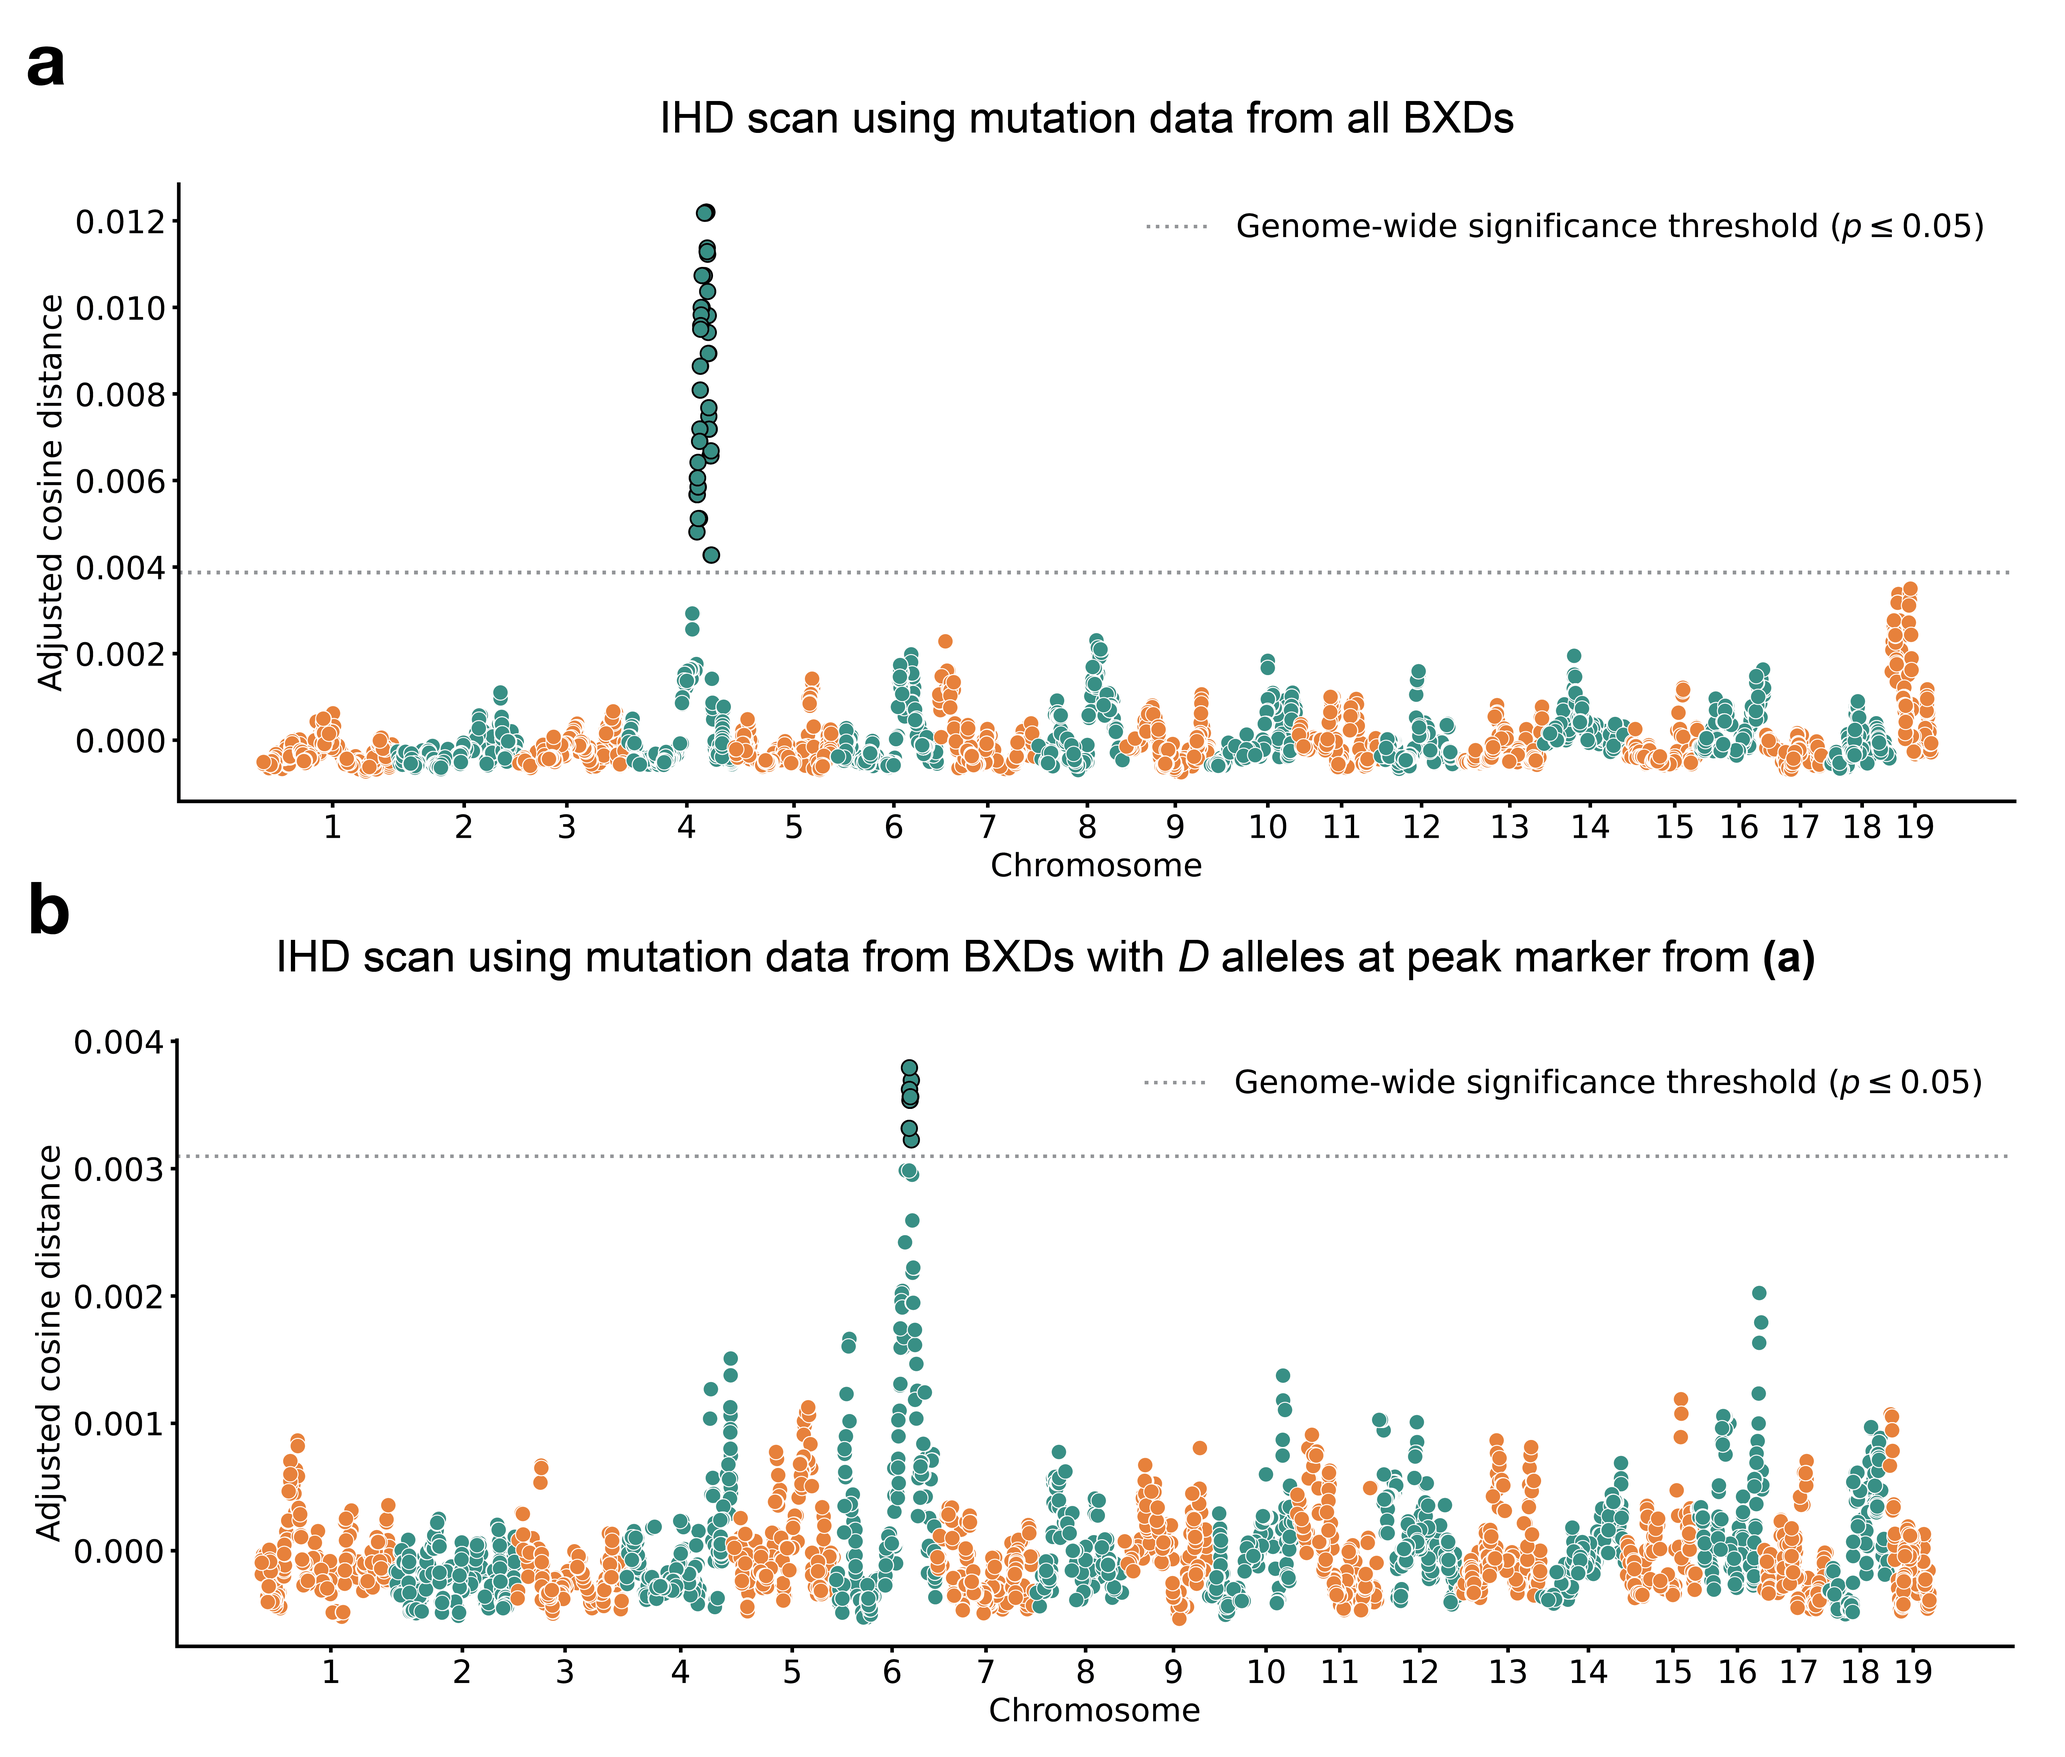
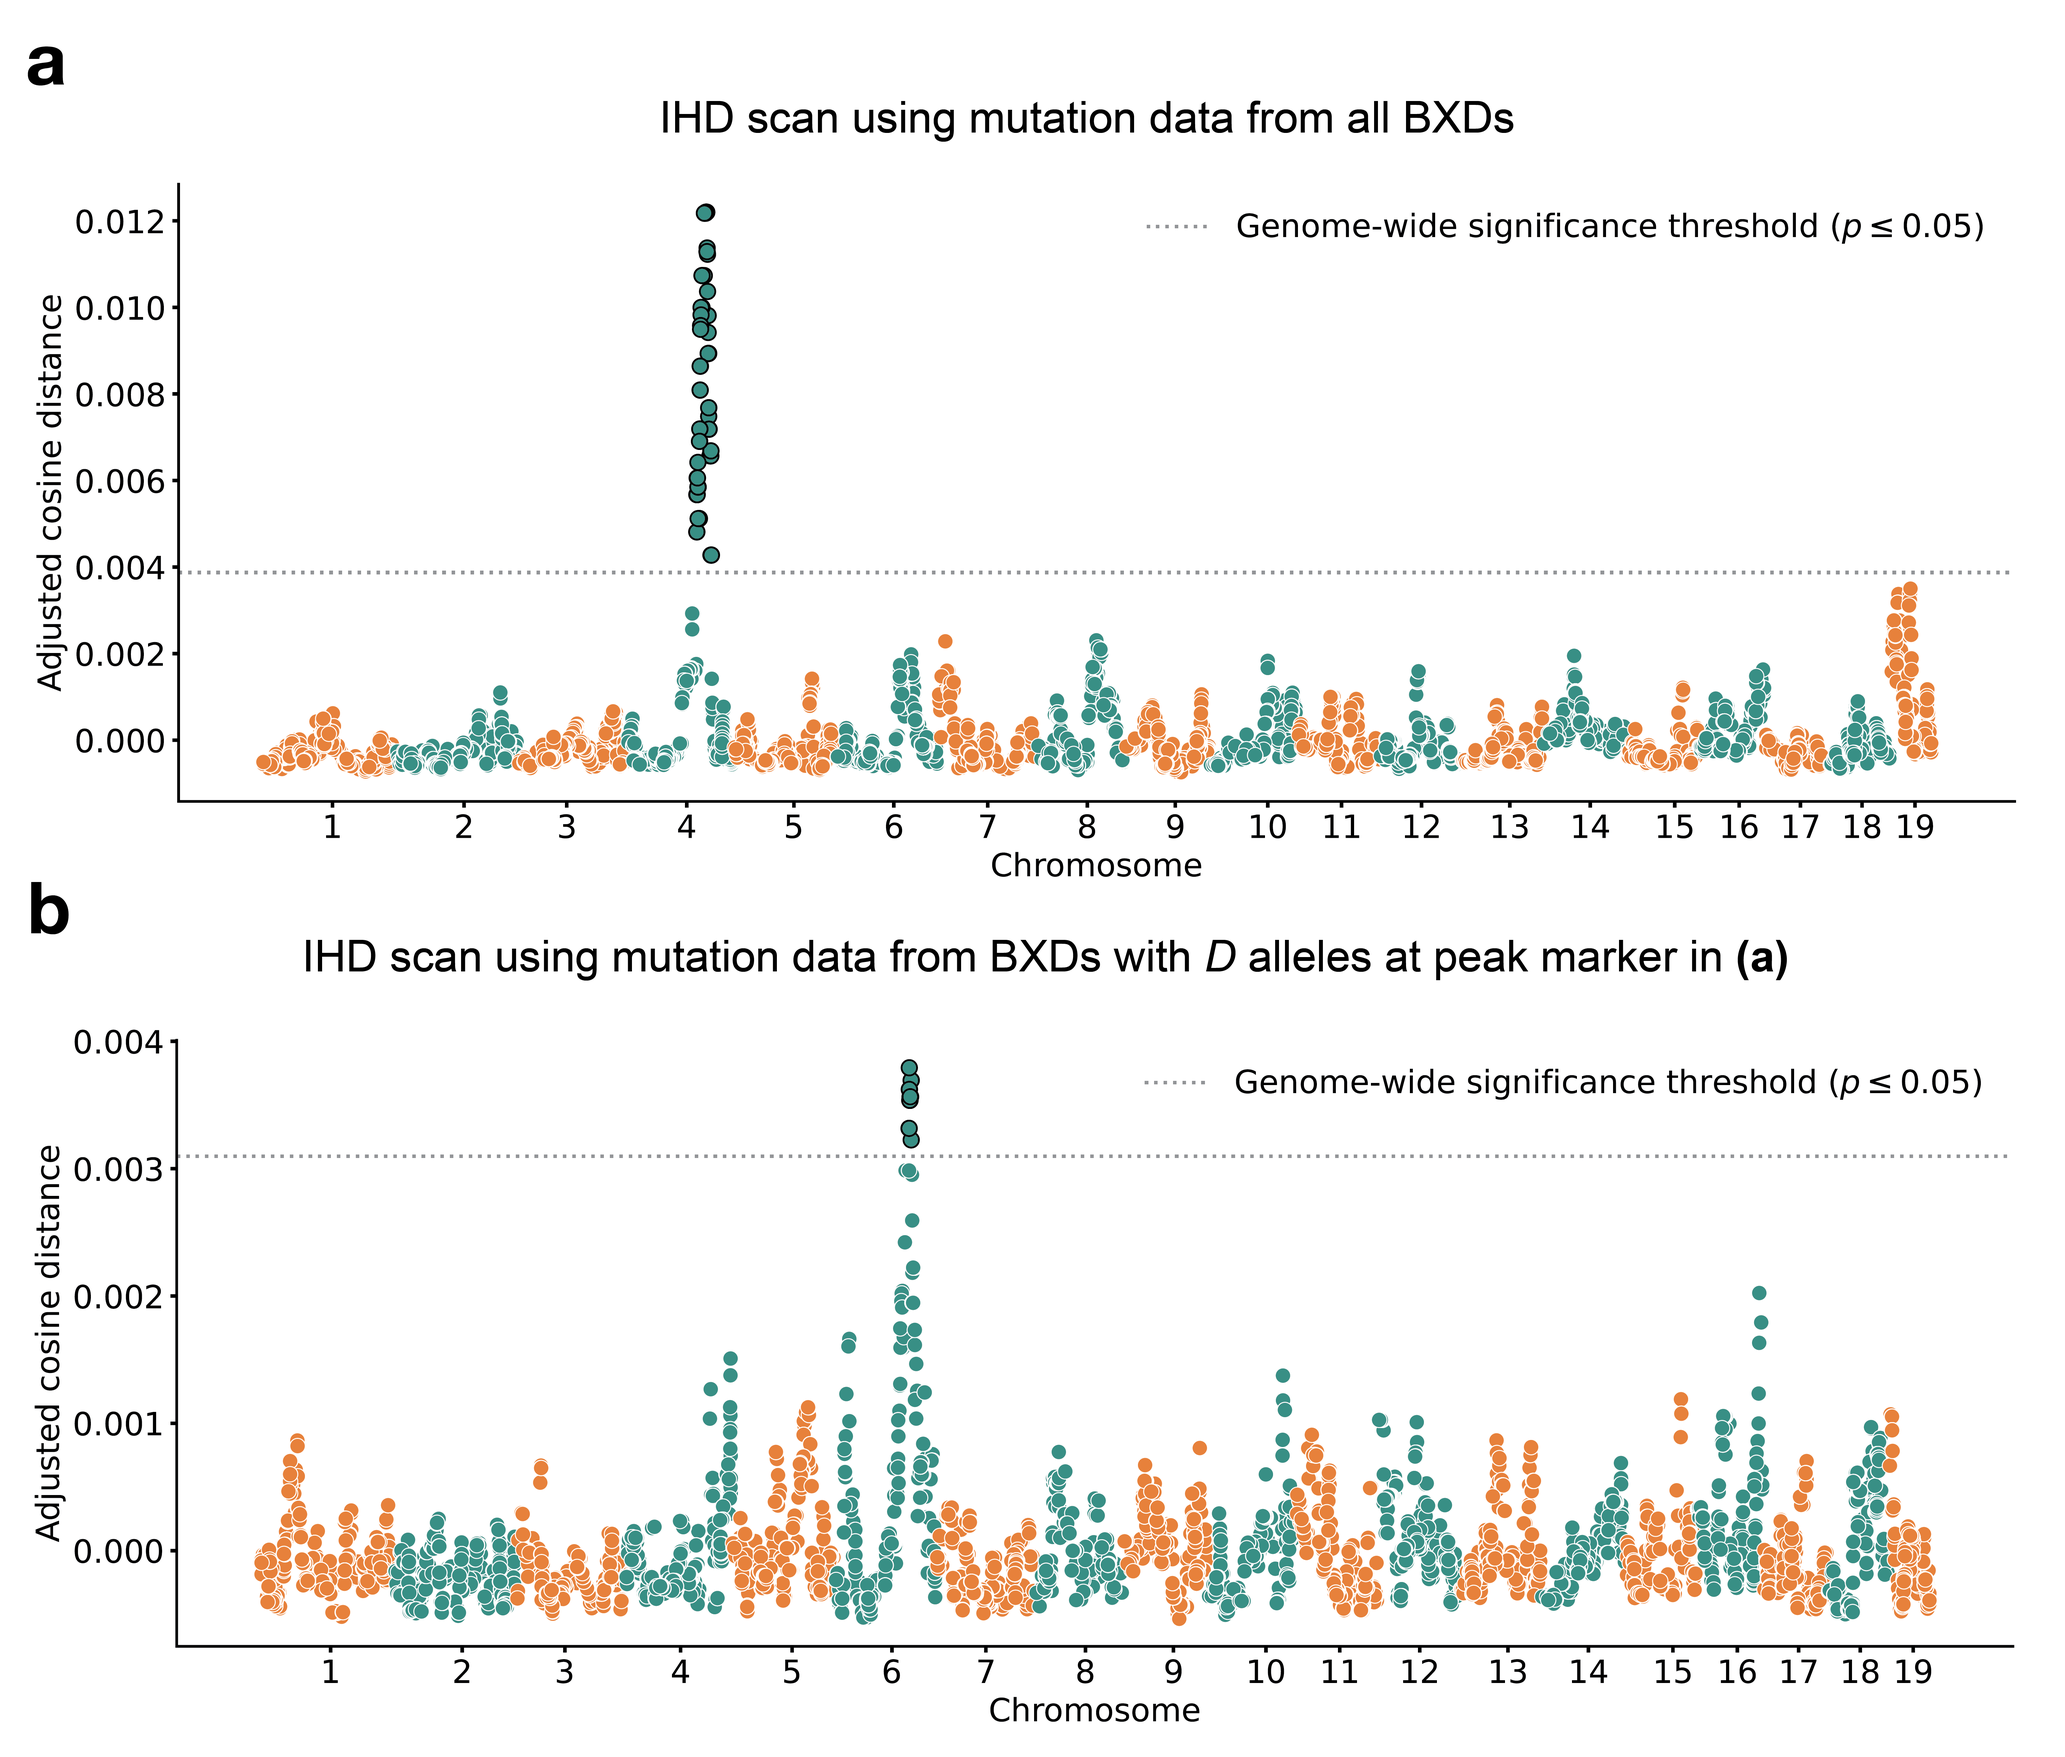
Minor syntax changes, add distance method supp fig and update other figures.

diff --git a/content/03.results.md b/content/03.results.md
@@ -12,7 +12,7 @@ We find that the method's power is primarily limited by the initial mutation rat
 For example, given 100 haplotypes with an average of 500 *de novo* germline mutations each, the IHD approach has approximately 80% power to detect a mutator allele that increases the C>T *de novo* mutation rate by as little as 10%. 
 However, the method only has about 10% power to detect a mutator of identical effect size that augments the C>A mutation rate, since C>A mutations are expected to make up a smaller fraction of all *de novo* germline mutations to begin with. 
 These simulations also demonstrate that our approach is well-powered to detect large-effect mutator alleles (e.g., those that increase the mutation rate of a specific $k$-mer by 50%), even with a relatively small number of mutations per haplotype (Figure {@fig:simulations}).
-Overall, we find that both IHD and traditional quantitative trait locus (QTL) mapping have similar power to detect alleles that augment the rates of individual 1-mer mutation types (Figure {@fig:ihd_vs_qtl_power}); for a more detailed discussion of the advantages and disadvantages of either method, see the Supplementary Information.
+Overall, we find that both IHD and traditional quantitative trait locus (QTL) mapping have similar power to detect alleles that augment the rates of individual 1-mer mutation types (Figure {@fig:ihd_vs_qtl_power}); for a more detailed discussion of the advantages and disadvantages of either method, see the *Supplementary Information*.
 
 ![
 **Overview of inter-haplotype distance method for discovering mutator alleles.** 
@@ -80,12 +80,14 @@ None of these genes has a previously annotated role in DNA binding, repair or re
 Next, we more precisely characterized the effects of the chromosome 4 and 6 mutator alleles on mutation spectra in the BXDs. 
 We observed that C>A germline mutation fractions in BXDs with *D* alleles at both mutator loci were higher than in BXDs with *D* alleles at either locus alone (Figure {@fig:spectra-comparison} and {@fig:spectra-comparison-all}). 
 Compared to BXDs with *B* alleles at the chromosome 6 mutator locus, those with *D* alleles did not exhibit higher C>A mutation fractions, indicating that the effects of the chromosome 6 mutator locus depend on the presence of a *D* allele at the chromosome 4 locus (Figure {@fig:spectra-comparison}). 
+
 We also used SigProfilerExtractor [@PMID:36388765] to assign the germline mutations in each BXD to a single-base substitution (SBS) mutation signature from the COSMIC catalog [@PMID:30371878].
 Mutation signatures often reflect specific exogenous or endogenous sources of DNA damage, and the fraction of a given sample's mutations attributable to a particular SBS signature can suggest a genetic or environmental etiology.
 The SBS1, SBS5, and SBS30 mutation signatures were active in all BXDs, regardless of genotypes at the chromosome 4 and 6 mutator loci (Figure @fig:spectra-comparison).
 However, the SBS18 signature, which is dominated by C>A mutations and likely reflects unrepaired DNA damage from reactive oxygen species, was only active in mice with *D* alleles at the chromosome 4 locus; the highest SBS18 activity was observed in mice with *D* alleles at both mutator loci (Figure @fig:spectra-comparison).
 SBS18 activity was absent in mice with *D* alleles at the chromosome 6 mutator locus alone (Figure @fig:spectra-comparison), further demonstrating that *D* alleles at this locus are not sufficient to cause a mutator phenotype.
-To more formally test for epistasis, we fit a linear model predicting counts of C>A mutations in each strain as a function of genotypes at `rs52263933` and `rs31001331` (the peak markers at the two mutator loci) (Materials and Methods). 
+
+To more formally test for epistasis, we fit a linear model predicting counts of C>A mutations in each strain as a function of genotypes at `rs52263933` and `rs31001331` (the peak markers at the two mutator loci) (*Materials and Methods*). 
 A model that included an interaction term between genotypes at the two markers fit the data significantly better than a model including only additive effects (p = 9.8e-4).
 
 ![

diff --git a/content/05.methods.md b/content/05.methods.md
@@ -171,10 +171,9 @@ and used `cyvcf2` [@PMID:28165109] to iterate over the annotated VCF file in ord
 
 ### Extracting mutation signatures 
 
-We used SigProfilerExtractor (v.1.1.21) to extract mutation signatures from the BXD mutation data. After converting the BXD mutation data to the "matrix" input format expected by SigProfilerExtractor, we ran the `sigProfilerExtractor` method as follows:
+We used SigProfilerExtractor (v.1.1.21) [@PMID:30371878] to extract mutation signatures from the BXD mutation data. After converting the BXD mutation data to the "matrix" input format expected by SigProfilerExtractor, we ran the `sigProfilerExtractor` method as follows:
 
 ```python
-
 # install the mm10 mouse reference data
 genInstall.install('mm10')
 

diff --git a/content/06.supplement.md b/content/06.supplement.md
@@ -69,7 +69,7 @@ We then applied the inter-haplotype distance method, using either cosine distanc
 In each trial, we asked if the adjusted cosine distance or chi-square statistic at locus $g_i$ was greater than expected by chance. 
 Given a specific combination of parameters, the y-axis denotes the fraction of 100 trials in which the simulated mutator allele could be detected at a significance threshold of p = 0.05.
 Shaded areas indicate the standard deviation of that fraction across 100 simulations.
-](images/fig-cosine-vs-chisquare.png){#fig:cosine_vs_chisquare tag="1-figure supplement 2" width=7in} 
+](images/fig-distance-method-comparison.png){#fig:cosine_vs_chisquare tag="1-figure supplement 2" width=7in} 
 
 
 ![
